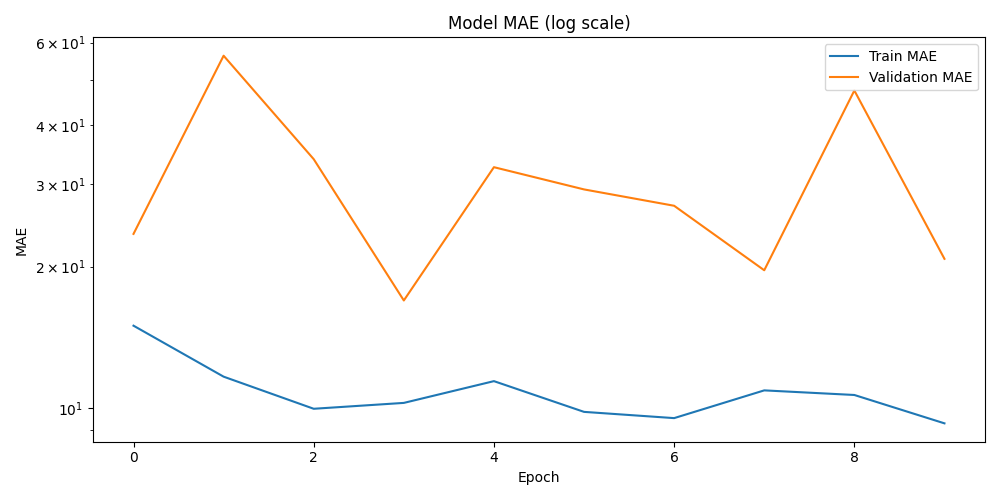
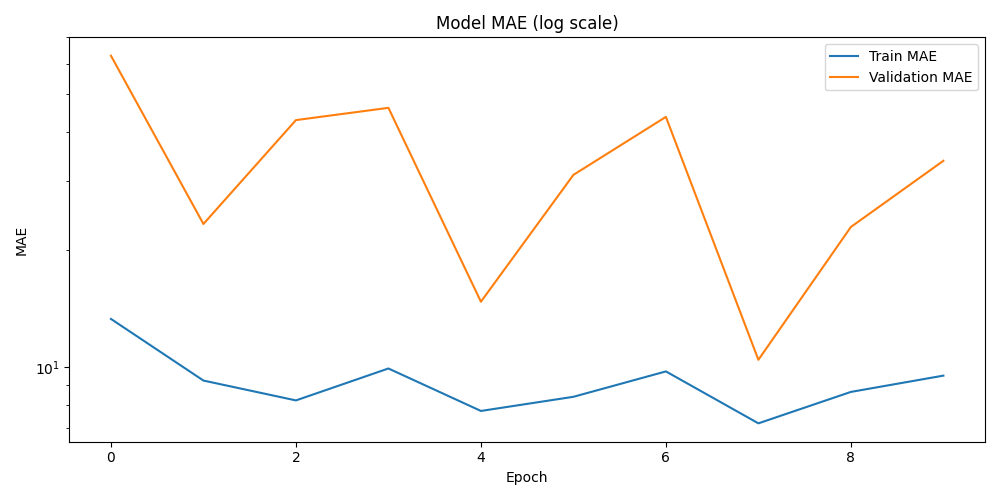
fixing errors

diff --git a/v2/main.py b/v2/main.py
@@ -1,5 +1,8 @@
 import argparse
 import os
+import csv, json
+import tensorflow as tf
+
 # from src.data_loader import load_dataset, load_csv
 # from src.model_builder import build_feed_forward_model
 # from src.trainer import train_model, evaluate_model
@@ -12,7 +15,12 @@ from src.trainer_single_gpu import train_single_gpu
 # import torch
 # from src.model_builder_torch import build_feed_forward_model_torch
 # from src.trainer_torch import train_model_torch, evaluate_model_torch
-
+# sysinfo = {
+#     "hostname": platform.node(),
+#     "gpu_count": len(tf.config.list_physical_devices('GPU')),
+#     "cpu_count": psutil.cpu_count(),
+#     "tf_version": tf.__version__,
+# }
 
 def main():
     parser = argparse.ArgumentParser(description="Feed Forward Neural Network Trainer")
@@ -41,7 +49,7 @@ def main():
     if args.mode ==  "local-gpu":
         print("Running local feed forward training..")
 
-        model, history, scaler_X = train_single_gpu(
+        model, history, scaler_X, total_time_ = train_single_gpu(
             dataset_path=args.data,
             input_size=args.input_size,
             epochs=args.epochs,
@@ -93,8 +101,29 @@ def main():
             ensure_dir("models/distributed")
             save_models(model, scaler_X, history, "models/distributed")
 
+    ensure_dir("results")
+    dataset_name = os.path.splitext(os.path.basename(args.data))[0]
+    summary_path = os.path.join("results",  f"summary_{args.mode}_{dataset_name}.csv")
+    param_count = model.count_params()
+    param_size = param_count * 4/(1024**2) # float32
+    metrics= {
+        "dataset": os.path.basename(args.data),
+        "mode": args.mode,
+        "hardware": " 13th Gen Intel(R) Core(TM) i7-13700K & NVIDIA GeForce RTX 4090",
+        "input_size": args.input_size,
+        "parameters": param_count,
+        "train_time": total_time_,
+        "train_mse": history["train_mae"][-1],
+        "val_mae": history["val_mae"][-1],
 
-    
+    }
+    #Append to CSV
+    file_exists = os.path.isfile(summary_path)
+    with open(summary_path, "a", newline="") as f:
+        writer = csv.DictWriter(f, fieldnames = metrics.keys())
+        if not file_exists:
+            writer.writeheader()
+        writer.writerow(metrics)
 
 
 

diff --git a/v2/src/trainer_single_gpu.py b/v2/src/trainer_single_gpu.py
@@ -54,9 +54,12 @@ def train_single_gpu(
 
 
     # Training Loop (per-epoch logs)
+    total_train_samples = len(train_ds)
+    total_val_samples = len(val_ds)
 
-    STEPS_PER_EPOCH = 100
-    VAL_STEPS = 20
+
+    STEPS_PER_EPOCH = total_train_samples // batch_size
+    VAL_STEPS = total_val_samples // batch_size
     train_iter, val_iter = iter(train_ds), iter(val_ds)
     history = {"train_loss": [], "val_loss": [], "train_mae": [], "val_mae": []}
 
@@ -101,7 +104,7 @@ def train_single_gpu(
         history["train_mae"].append(tm)
         history["val_mae"].append(vm)
 
-        print(f"Epoch {epoch+1}/{epochs},Train Loss: {tl:.6f}, MAE: {tm:.6f},Val Loss: {vl:.6f}, MAE: {vm:.6f},  Time: {epoch_time:.2f}s ")
+        print(f"Epoch {epoch+1}/{epochs},Train Loss: {tl:.6f}, MAE: {tm:.6f},Val Loss: {vl:.6f}, MAE: {vm:.6f},  Time: {epoch_time:.2f}s", flush = True)
 
     total_time = time.perf_counter() - overall_start
 
@@ -112,4 +115,4 @@ def train_single_gpu(
     print(f"Training complete in {total_time:.2f}s")
     print(f"Model + artifacts saved to models/ and plots/")
 
-    return model, history, scaler
+    return model, history, scaler, total_time

diff --git a/v2/src/data_loader.py b/v2/src/data_loader.py
@@ -15,6 +15,7 @@ def make_datasets_with_scaler(data_file, global_batch_size, train_split=0.8):
     """
     #Load CSV into pandas
     df = pd.read_csv(data_file)
+    
     X = df.iloc[:, :-1].values.astype("float32")  # Features
     y = df.iloc[:, -1].values.astype("float32")   # Labels
 

diff --git a/README.md b/README.md
@@ -22,9 +22,10 @@ v2/
 
 ### **A. Local single-GPU Training**
 
-- Generate dataset
+#### Generate dataset
     `python3 generatedataset.py`
     This will make two datasets:
     1. Training dataset including data from `generatedataset(starting_node, max_node, max_pred_node)`
     2. Actual data set for prediction from `generatedataset(max_prediction_node,prediction_node)`
+#### 
 
